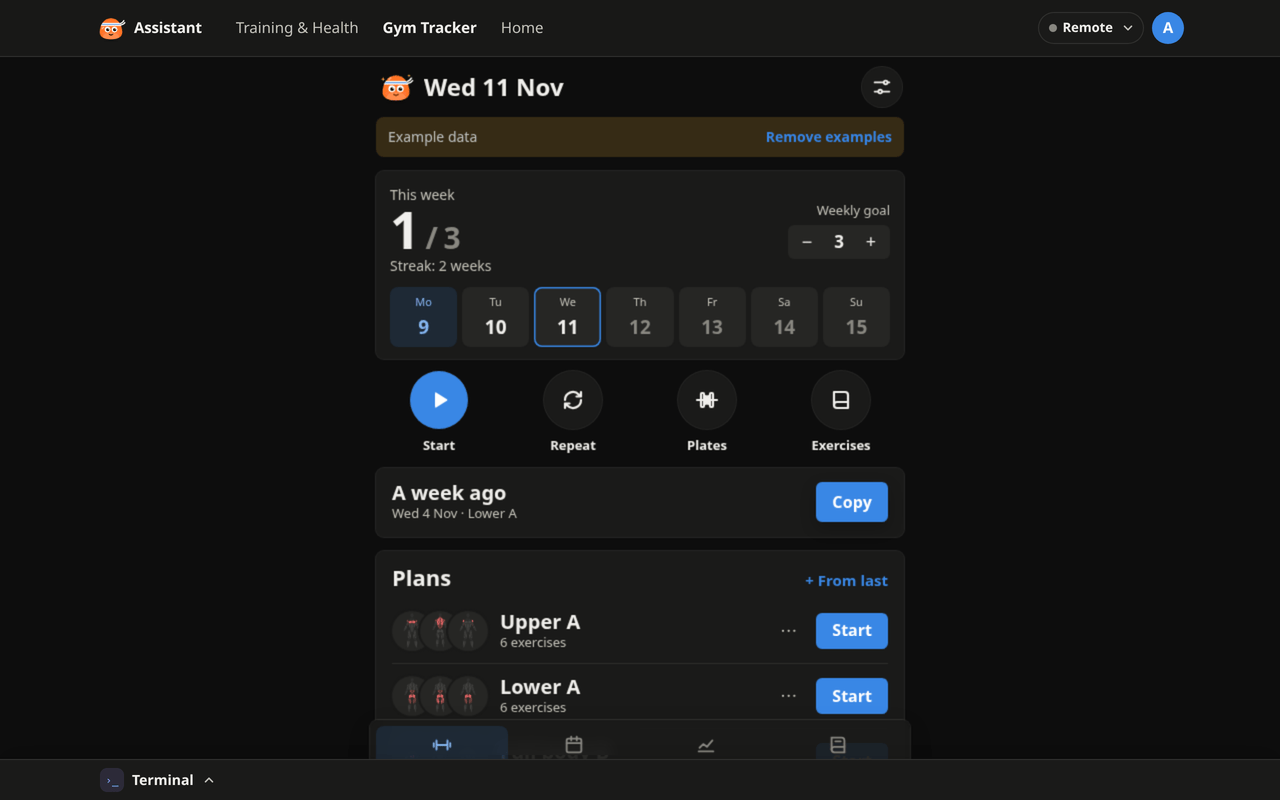
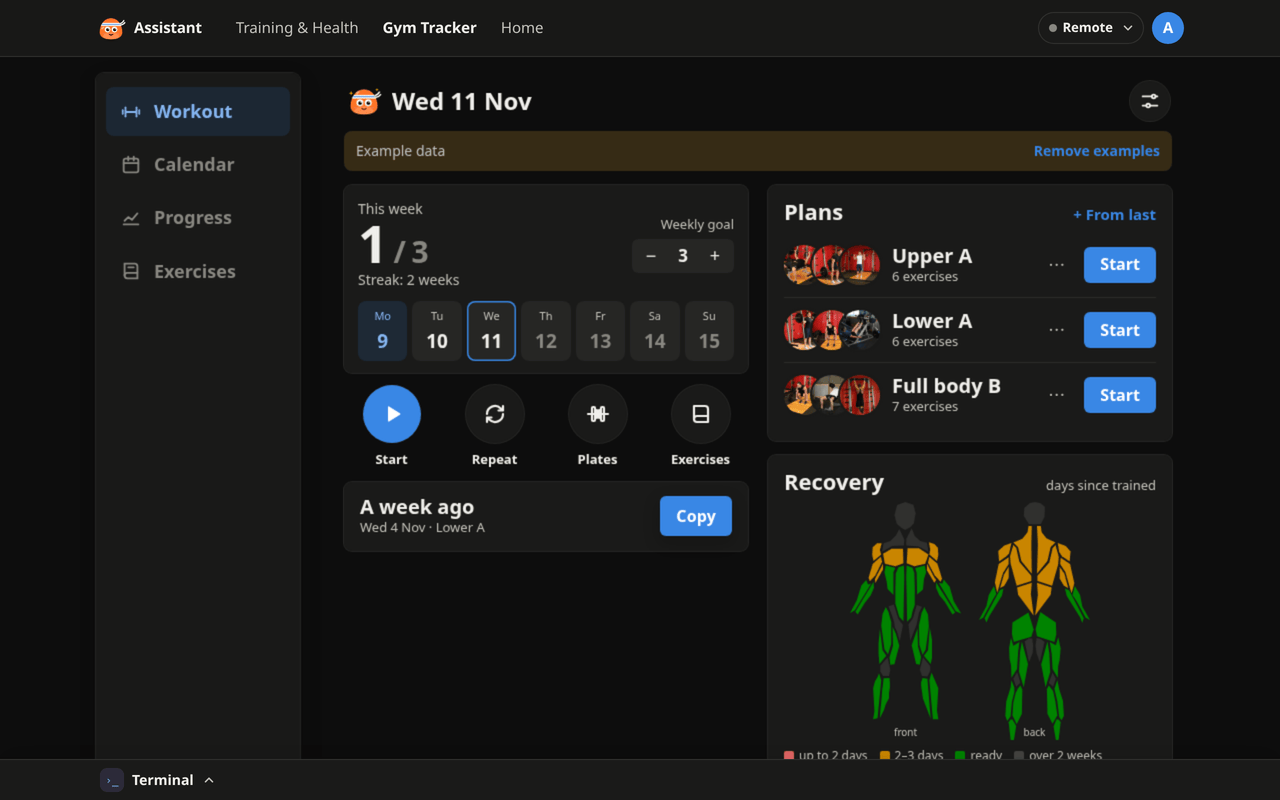
README: plain wording, no emoji or badges; gym screenshots at 1.2.0
Cards and the inspirations table say what each one does without emoji or
badges. gym.png and gym-dark.png show the desktop layout of Gym Tracker
1.2.0, taken with demo data.

diff --git a/README.md b/README.md
@@ -2,48 +2,42 @@
 
 <img src="docs/beni.svg" alt="Beni, the assistant's mascot: an orange jelly-bean runner in a sweatband" width="128" />
 
-# Beni Assistant · Extensions
+# Beni Assistant extensions
 
-### The apps for [Beni Assistant](https://github.com/b-niamin/assistant), your self-hosted assistant.
+Extensions for [Beni Assistant](https://github.com/b-niamin/assistant).
+`extensions/` holds ones you install as they are; `inspirations/` holds skeletons Claude adapts into new ones.
 
-Install a ready-made one, or let Claude build yours from an inspiration.
-
-[Extensions](#-ready-to-use) · [Inspirations](#-inspirations) · [Install](#-install) · [Build your own](#-build-your-own)
-
-![Ready to use](https://img.shields.io/badge/ready_to_use-3-FF7A45?style=flat-square)
-![Inspirations](https://img.shields.io/badge/inspirations-3-7C5CFF?style=flat-square)
-![SvelteKit](https://img.shields.io/badge/native-SvelteKit-FF3E00?style=flat-square&logo=svelte&logoColor=white)
-![Onefile](https://img.shields.io/badge/onefile-one_HTML_file-555?style=flat-square&logo=html5&logoColor=white)
+[Ready to use](#ready-to-use) · [Inspirations](#inspirations) · [Install](#install) · [Write your own](#write-your-own)
 
 </div>
 
-## 🧩 Ready to use
+## Ready to use
 
 <table>
   <tr>
     <td width="33%" valign="top">
       <a href="docs/screenshots/health.png"><img src="docs/screenshots/health.png" alt="Training &amp; Health: readiness, sleep, HRV, Body Battery and more" /></a>
-      <h3>🏃 <a href="extensions/health">Training &amp; Health</a></h3>
-      Garmin sleep, HRV, Body Battery, readiness and activities with route, laps and charts.<br />
-      <sub><code>health</code> · native · per profile · needs Garmin Connect</sub>
+      <h3><a href="extensions/health">Training &amp; Health</a></h3>
+      Sleep, HRV, Body Battery, readiness and activities with route, laps and charts, synced from Garmin.<br />
+      <sub><code>health</code> · native · per profile · needs a Garmin Connect account</sub>
     </td>
     <td width="33%" valign="top">
-      <a href="docs/screenshots/gym.png"><img src="docs/screenshots/gym.png" alt="Gym Tracker: this week, plans and a muscle map" /></a>
-      <h3>🏋 <a href="extensions/gym">Gym Tracker</a></h3>
-      Plan workouts, log sets and weights, see your progress and the muscles you trained.<br />
+      <a href="docs/screenshots/gym.png"><img src="docs/screenshots/gym.png" alt="Gym Tracker: this week, plans and a recovery map" /></a>
+      <h3><a href="extensions/gym">Gym Tracker</a></h3>
+      Workout plans, sets and weights, progress charts and a body map of trained muscles.<br />
       <sub><code>gym</code> · onefile · per profile</sub>
     </td>
     <td width="33%" valign="top">
       <a href="docs/screenshots/home.png"><img src="docs/screenshots/home.png" alt="Home: weather, lights, doors and windows, today's calendar" /></a>
-      <h3>💡 <a href="extensions/home">Home</a></h3>
-      A calm board for the house: lights, doors and windows, camera alerts, weather and today's calendar.<br />
+      <h3><a href="extensions/home">Home</a></h3>
+      Lights on, open doors and windows, camera alerts, weather with warnings and today's calendar.<br />
       <sub><code>home</code> · native · shared · needs Home Assistant</sub>
     </td>
   </tr>
 </table>
 
 <details>
-<summary>📸 More screenshots, light and dark</summary>
+<summary>More screenshots, light and dark</summary>
 
 | Light | Dark |
 |---|---|
@@ -57,23 +51,22 @@ An activity in Training & Health:
 
 </details>
 
-<sub>All screenshots use demo data.</sub>
+<sub>Screenshots use demo data.</sub>
 
-## 💭 Inspirations
+## Inspirations
 
-Skeletons Claude copies and adapts to you; they are not installed as they are.
+Skeletons, not installed as they are. Claude copies one and changes it to fit.
 
-| | Inspiration | Shows how to |
-|---|---|---|
-| 🏡 | [`home-assistant`](inspirations/home-assistant) | Shared data and a settings panel with a token (the ready-made `home` grew from it) |
-| 📅 | [`calendar`](inspirations/calendar) | Shared data, dashboard tiles |
-| 🧠 | [`learning`](inspirations/learning) | Per-profile data, dashboard tiles, a daily streak |
+| Inspiration | Example of |
+|---|---|
+| [`home-assistant`](inspirations/home-assistant) | Shared data and a settings panel with a secret token (`home` started from it) |
+| [`calendar`](inspirations/calendar) | Shared data and dashboard tiles |
+| [`learning`](inspirations/learning) | Per-profile data, dashboard tiles and a daily streak |
 
-Anything else can be an inspiration too: someone's repo, an app from
-[onefile-apps](https://github.com/b-niamin/onefile-apps), an idea. Claude builds the extension fresh and
-records the source as `inspiredBy`.
+A repo, an app from [onefile-apps](https://github.com/b-niamin/onefile-apps) or a description works as
+a starting point too. Claude writes the extension from scratch and records the source as `inspiredBy`.
 
-## 🚀 Install
+## Install
 
 With a new Beni Assistant:
 
@@ -81,22 +74,22 @@ With a new Beni Assistant:
 curl -fsSL https://raw.githubusercontent.com/b-niamin/assistant/main/install.sh | sudo sh -s -- health gym home
 ```
 
-In a running one: **System settings → Extend the system**, or ask Claude *"add the gym tracker"*.
-By hand and updating: [docs/install.md](docs/install.md).
+In a running instance: **System settings → Extend the system**, or ask Claude *"add the gym tracker"*.
+Command-line install and updates: [docs/install.md](docs/install.md).
 
-## 🔧 Build your own
+## Write your own
 
-Ask Claude in your assistant: *"build me a habit tracker inspired by &lt;link&gt;"*. It starts from an
-inspiration (`ext new <id> --from inspiration:<name>`), wears the app's look and puts Beni in.
+Ask Claude in your instance, e.g. *"build me a habit tracker based on &lt;link&gt;"*. It starts from an
+inspiration (`ext new <id> --from inspiration:<name>`) and uses the app's layout and components.
 
 ```mermaid
 flowchart LR
-  idea(["💡 idea · repo · onefile app"]) --> claude["🤖 Claude in your assistant"]
-  insp[("💭 inspirations/")] --> claude
-  claude --> ext["🧩 your extension<br/>page · tiles · tools · tables"]
-  ready[("🧩 extensions/")] -- "ext install" --> ext
+  idea(["idea, repo or onefile app"]) --> claude["Claude in your instance"]
+  insp[("inspirations/")] --> claude
+  claude --> ext["your extension<br/>page, tiles, tools, tables"]
+  ready[("extensions/")] -- "ext install" --> ext
 ```
 
-What a folder holds: [docs/extension-layout.md](docs/extension-layout.md). The full contract:
+Folder layout: [docs/extension-layout.md](docs/extension-layout.md). Full contract:
 [spec 002](https://github.com/b-niamin/assistant/blob/main/specs/002-extensions.md) in the core repo.
-To publish one here, add its folder and an entry in [`catalog.json`](catalog.json).
+To publish an extension here, add its folder and an entry in [`catalog.json`](catalog.json).
